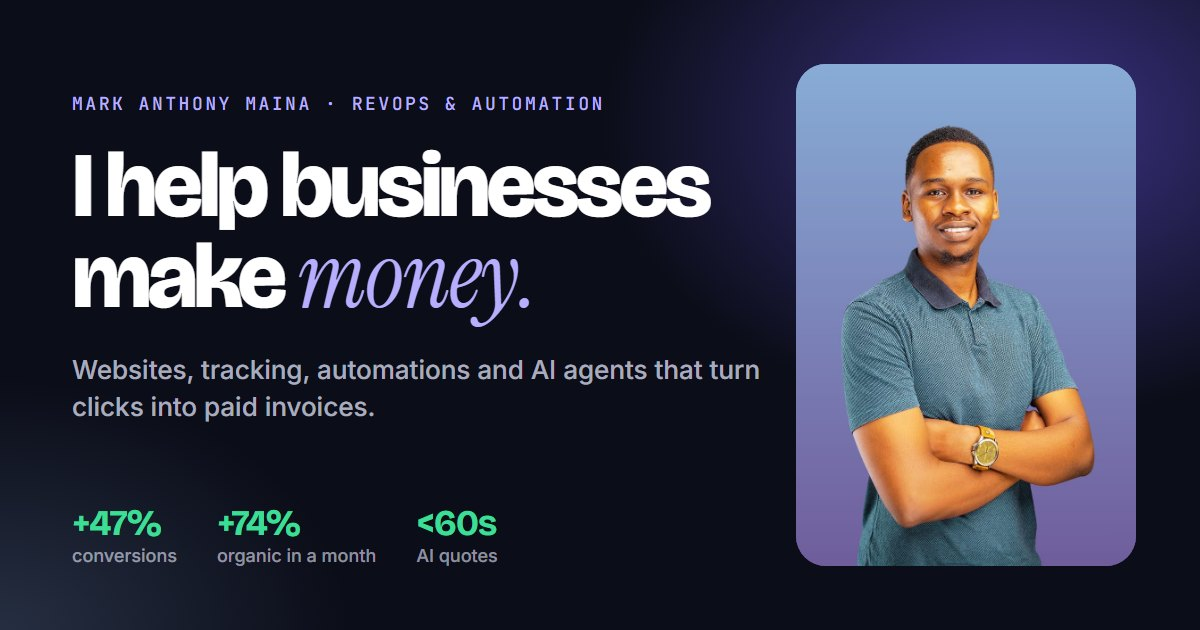
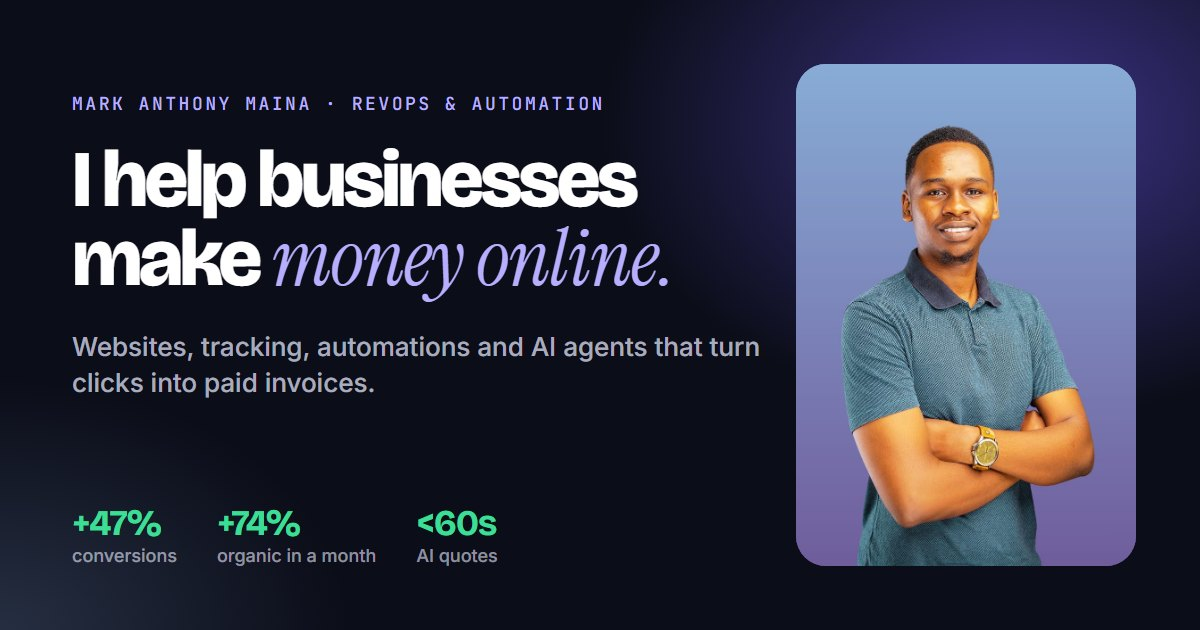
Hero: 'make money online' headline, 3 badges (8 yrs, 150+, worldwide)

Changed region(s): [[0.0617, 0.2413, 0.6167, 0.5127], [0.0617, 0.5127, 0.6475, 0.6635]]

diff --git a/index.html b/index.html
@@ -3,13 +3,13 @@
 <head>
 <meta charset="utf-8">
 <meta name="viewport" content="width=device-width, initial-scale=1">
-<title>Mark Anthony Maina | RevOps, Marketing Automation &amp; AI. I help businesses make money.</title>
-<meta name="description" content="I help businesses make money: RevOps, marketing automation, AI sales agents, SEO, CRO and websites that sell. Real client results, real numbers. Based in Nairobi, working worldwide.">
+<title>Mark Anthony Maina | I help businesses make money online. RevOps, Automation &amp; AI</title>
+<meta name="description" content="I help businesses make money online: RevOps, marketing automation, AI sales agents, SEO, CRO and websites that sell. Real client results, real numbers. Based in Nairobi, working worldwide.">
 <meta name="author" content="Mark Anthony Maina">
 <link rel="canonical" href="https://mcanthony98.github.io/mcanthony98/">
 <meta property="og:type" content="website">
-<meta property="og:title" content="Mark Anthony Maina | RevOps, Marketing Automation &amp; AI. I help businesses make money.">
-<meta property="og:description" content="I help businesses make money: RevOps, marketing automation, AI sales agents, SEO, CRO and websites that sell. Real client results, real numbers. Based in Nairobi, working worldwide.">
+<meta property="og:title" content="Mark Anthony Maina | I help businesses make money online. RevOps, Automation &amp; AI">
+<meta property="og:description" content="I help businesses make money online: RevOps, marketing automation, AI sales agents, SEO, CRO and websites that sell. Real client results, real numbers. Based in Nairobi, working worldwide.">
 <meta property="og:url" content="https://mcanthony98.github.io/mcanthony98/">
 <meta property="og:image" content="https://mcanthony98.github.io/mcanthony98/assets/img/og.jpg">
 <meta name="twitter:card" content="summary_large_image">
@@ -51,7 +51,7 @@
   <div class="container hero-grid">
     <div>
       <div class="pill reveal"><i></i>Taking new projects &middot; Worldwide</div>
-      <h1 class="reveal d1">I help businesses make <span class="serif">money.</span></h1>
+      <h1 class="reveal d1 hero-h1">I help businesses<br><span class="nowrap">make <span class="serif">money online.</span></span></h1>
       <p class="lead reveal d2">Hi, I&rsquo;m Mark. Not traffic, not likes: <strong>money.</strong> I build the systems between a stranger&rsquo;s first click and cash in your bank (the website, the tracking, the automations, the AI agents) and then I show you the numbers, so you know it worked.</p>
       <div class="btn-row reveal d3">
         <a class="btn btn-primary" href="#contact">Book a free 20-min call <svg viewBox="0 0 24 24" fill="none" stroke="currentColor" stroke-width="1.8" stroke-linecap="round" stroke-linejoin="round" aria-hidden="true"><path d="M5 12h14M13 6l6 6-6 6"/></svg></a>
@@ -68,10 +68,9 @@
         <picture><source type="image/webp" srcset="assets/img/mark-hero-560.webp 560w, assets/img/mark-hero-900.webp 900w" sizes="(max-width: 960px) 90vw, 470px">
         <img src="assets/img/mark-hero.jpg" alt="Mark Anthony Maina" width="900" height="1125" fetchpriority="high"></picture>
       </div>
-      <div class="chip chip-a"><span class="chip-ic"><svg viewBox="0 0 24 24" fill="none" stroke="currentColor" stroke-width="1.8" stroke-linecap="round" stroke-linejoin="round" aria-hidden="true"><path d="M2 9l10-5 10 5-10 5L2 9z"/><path d="M6 11v5c3 2.5 9 2.5 12 0v-5M22 9v6"/></svg></span><div><b>BSc Engineering</b><small>Electrical &amp; Electronics &middot; JKUAT</small></div></div>
-      <div class="chip chip-b"><span class="chip-ic"><svg viewBox="0 0 24 24" fill="none" stroke="currentColor" stroke-width="1.8" stroke-linecap="round" stroke-linejoin="round" aria-hidden="true"><path d="M8 6l-6 6 6 6M16 6l6 6-6 6"/></svg></span><div><b>30+</b><small>sites, platforms &amp; automations shipped</small></div></div>
-      <div class="chip chip-c"><span class="chip-ic"><svg viewBox="0 0 24 24" fill="none" stroke="currentColor" stroke-width="1.8" stroke-linecap="round" stroke-linejoin="round" aria-hidden="true"><rect x="3" y="5" width="18" height="16" rx="2"/><path d="M3 10h18M8 3v4M16 3v4"/></svg></span><div><b>8 years</b><small>building for the web, since 2018</small></div></div>
-      <div class="chip chip-d"><span class="chip-ic"><svg viewBox="0 0 24 24" fill="none" stroke="currentColor" stroke-width="1.8" stroke-linecap="round" stroke-linejoin="round" aria-hidden="true"><circle cx="12" cy="12" r="9"/><path d="M3 12h18M12 3c2.5 2.7 3.8 5.7 3.8 9s-1.3 6.3-3.8 9c-2.5-2.7-3.8-5.7-3.8-9S9.5 5.7 12 3z"/></svg></span><div><b>Kenya &middot; UK</b><small>clients on two continents</small></div></div>
+      <div class="chip chip-a"><span class="chip-ic"><svg viewBox="0 0 24 24" fill="none" stroke="currentColor" stroke-width="1.8" stroke-linecap="round" stroke-linejoin="round" aria-hidden="true"><rect x="3" y="5" width="18" height="16" rx="2"/><path d="M3 10h18M8 3v4M16 3v4"/></svg></span><div><b>8 years</b><small>building for the web, since 2018</small></div></div>
+      <div class="chip chip-b"><span class="chip-ic"><svg viewBox="0 0 24 24" fill="none" stroke="currentColor" stroke-width="1.8" stroke-linecap="round" stroke-linejoin="round" aria-hidden="true"><path d="M8 6l-6 6 6 6M16 6l6 6-6 6"/></svg></span><div><b>150+</b><small>sites, platforms &amp; automations shipped</small></div></div>
+      <div class="chip chip-c"><span class="chip-ic"><svg viewBox="0 0 24 24" fill="none" stroke="currentColor" stroke-width="1.8" stroke-linecap="round" stroke-linejoin="round" aria-hidden="true"><circle cx="12" cy="12" r="9"/><path d="M3 12h18M12 3c2.5 2.7 3.8 5.7 3.8 9s-1.3 6.3-3.8 9c-2.5-2.7-3.8-5.7-3.8-9S9.5 5.7 12 3z"/></svg></span><div><b>Worldwide</b><small>taking clients globally</small></div></div>
     </div>
   </div>
 </section>

diff --git a/assets/css/site.css b/assets/css/site.css
@@ -208,6 +208,9 @@ h4 { font-size: 18px; letter-spacing: -.01em; line-height: 1.3; }
 .hero-grid { display: grid; grid-template-columns: 1.12fr .88fr; gap: clamp(32px, 5vw, 72px); align-items: center; }
 .hero h1 { margin-bottom: 26px; }
 .hero h1 .serif { font-size: 1.08em; line-height: .9; }
+.hero-h1 { font-size: clamp(38px, 5.4vw, 74px); line-height: 1.02; }
+.hero-h1 .serif { color: var(--lavender); }
+.nowrap { white-space: nowrap; }
 .hero .lead { color: rgba(232, 234, 255, .74); margin-bottom: 34px; max-width: 600px; }
 .hero .lead strong { color: #fff; font-weight: 600; }
 .pill {
@@ -242,10 +245,9 @@ h4 { font-size: 18px; letter-spacing: -.01em; line-height: 1.3; }
 .chip-ic svg { width: 19px; height: 19px; }
 .chip b { display: block; font-family: var(--display); font-size: 17px; font-weight: 700; letter-spacing: -.02em; }
 .chip small { display: block; color: rgba(255, 255, 255, .62); font-size: 12px; margin-top: 2px; }
-.chip-a { top: 7%; left: -16%; }
-.chip-b { top: 34%; right: -14%; animation-delay: -1.8s; }
-.chip-c { bottom: 24%; left: -18%; animation-delay: -3.6s; }
-.chip-d { bottom: 5%; right: -10%; animation-delay: -5.2s; }
+.chip-a { top: 8%; left: -16%; }
+.chip-b { top: 42%; right: -14%; animation-delay: -2.2s; }
+.chip-c { bottom: 7%; left: -14%; animation-delay: -4.4s; }
 @keyframes float { 50% { transform: translateY(-8px); } }
 
 /* Page hero (services + case studies) */
@@ -652,7 +654,7 @@ h4 { font-size: 18px; letter-spacing: -.01em; line-height: 1.3; }
 /* ---------- Responsive ---------- */
 @media (max-width: 1080px) {
   .loop { grid-template-columns: repeat(3, 1fr); }
-  .chip-a { left: -6%; } .chip-b { right: -4%; } .chip-c { left: -6%; } .chip-d { right: -3%; }
+  .chip-a { left: -6%; } .chip-b { right: -4%; } .chip-c { left: -4%; }
   .footer-grid { grid-template-columns: 1fr 1fr; }
 }
 @media (max-width: 960px) {
@@ -702,7 +704,7 @@ h4 { font-size: 18px; letter-spacing: -.01em; line-height: 1.3; }
   .chip { max-width: 200px; padding: 8px 12px 8px 8px; }
   .chip-ic { width: 32px; height: 32px; }
   .chip b { font-size: 15px; }
-  .chip-a { left: -2%; top: 4%; } .chip-b { right: -2%; top: 30%; } .chip-c { left: -2%; bottom: 22%; } .chip-d { right: -2%; bottom: 4%; }
+  .chip-a { left: -2%; top: 4%; } .chip-b { right: -2%; top: 40%; } .chip-c { left: -2%; bottom: 4%; }
   @keyframes float { 50% { transform: scale(.86) translateY(-6px); } }
   .duo-list li { grid-template-columns: 1fr; gap: 2px; }
   .cs-aside { grid-template-columns: 1fr; }

diff --git a/_src/build.py b/_src/build.py
@@ -158,7 +158,7 @@ def build_home():
   <div class="container hero-grid">
     <div>
       <div class="pill reveal"><i></i>Taking new projects &middot; Worldwide</div>
-      <h1 class="reveal d1">I help businesses make <span class="serif">money.</span></h1>
+      <h1 class="reveal d1 hero-h1">I help businesses<br><span class="nowrap">make <span class="serif">money online.</span></span></h1>
       <p class="lead reveal d2">Hi, I&rsquo;m Mark. Not traffic, not likes: <strong>money.</strong> I build the systems between a stranger&rsquo;s first click and cash in your bank (the website, the tracking, the automations, the AI agents) and then I show you the numbers, so you know it worked.</p>
       <div class="btn-row reveal d3">
         <a class="btn btn-primary" href="#contact">Book a free 20-min call {icon("arrow")}</a>
@@ -175,10 +175,9 @@ def build_home():
         <picture><source type="image/webp" srcset="assets/img/mark-hero-560.webp 560w, assets/img/mark-hero-900.webp 900w" sizes="(max-width: 960px) 90vw, 470px">
         <img src="assets/img/mark-hero.jpg" alt="Mark Anthony Maina" width="900" height="1125" fetchpriority="high"></picture>
       </div>
-      <div class="chip chip-a"><span class="chip-ic">{icon("grad")}</span><div><b>BSc Engineering</b><small>Electrical &amp; Electronics &middot; JKUAT</small></div></div>
-      <div class="chip chip-b"><span class="chip-ic">{icon("code")}</span><div><b>30+</b><small>sites, platforms &amp; automations shipped</small></div></div>
-      <div class="chip chip-c"><span class="chip-ic">{icon("cal")}</span><div><b>8 years</b><small>building for the web, since 2018</small></div></div>
-      <div class="chip chip-d"><span class="chip-ic">{icon("globe")}</span><div><b>Kenya &middot; UK</b><small>clients on two continents</small></div></div>
+      <div class="chip chip-a"><span class="chip-ic">{icon("cal")}</span><div><b>8 years</b><small>building for the web, since 2018</small></div></div>
+      <div class="chip chip-b"><span class="chip-ic">{icon("code")}</span><div><b>150+</b><small>sites, platforms &amp; automations shipped</small></div></div>
+      <div class="chip chip-c"><span class="chip-ic">{icon("globe")}</span><div><b>Worldwide</b><small>taking clients globally</small></div></div>
     </div>
   </div>
 </section>
@@ -344,8 +343,8 @@ def build_home():
                    "address": {"@type": "PostalAddress", "addressLocality": "Nairobi", "addressCountry": "KE"},
                    "hasOfferCatalog": {"@type": "OfferCatalog", "name": "Services", "itemListElement": [
                        {"@type": "Offer", "itemOffered": {"@type": "Service", "name": s["name"], "url": BASE + "services/" + s["slug"] + ".html"}} for s in SERVICES]}}]
-    write("index.html", page("", "Mark Anthony Maina | RevOps, Marketing Automation & AI. I help businesses make money.",
-                             "I help businesses make money: RevOps, marketing automation, AI sales agents, SEO, CRO and websites that sell. Real client results, real numbers. Based in Nairobi, working worldwide.",
+    write("index.html", page("", "Mark Anthony Maina | I help businesses make money online. RevOps, Automation & AI",
+                             "I help businesses make money online: RevOps, marketing automation, AI sales agents, SEO, CRO and websites that sell. Real client results, real numbers. Based in Nairobi, working worldwide.",
                              body, r, "home", ld))
 
 
